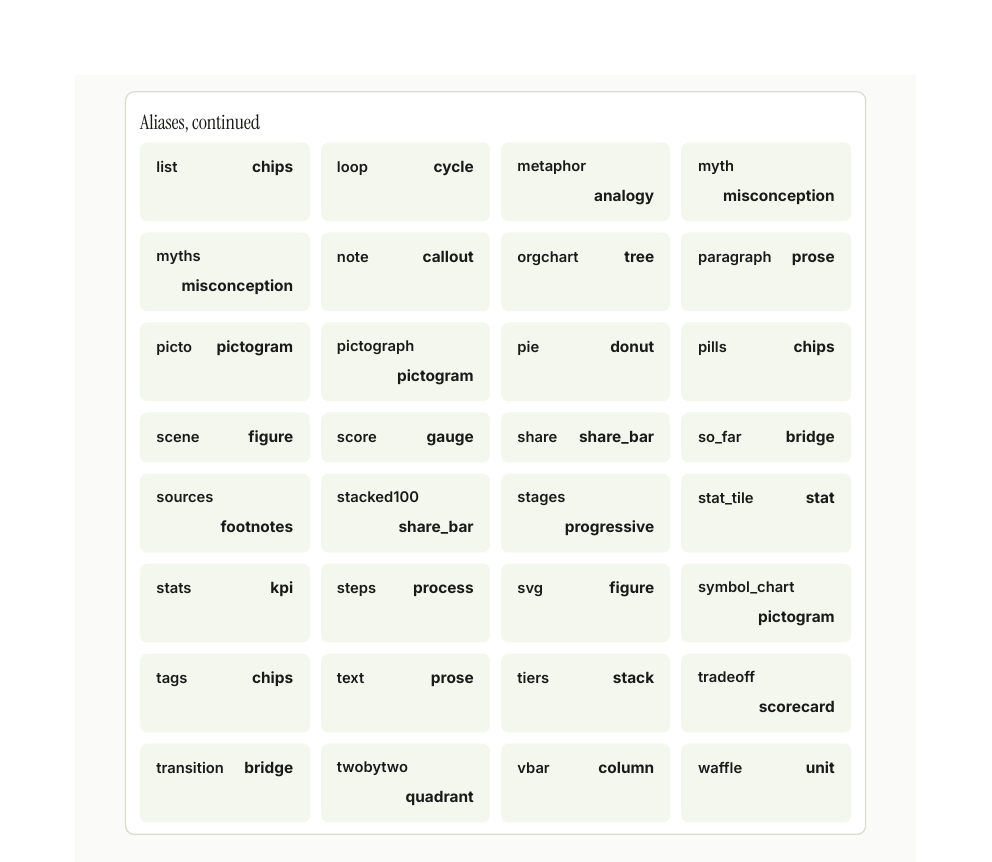
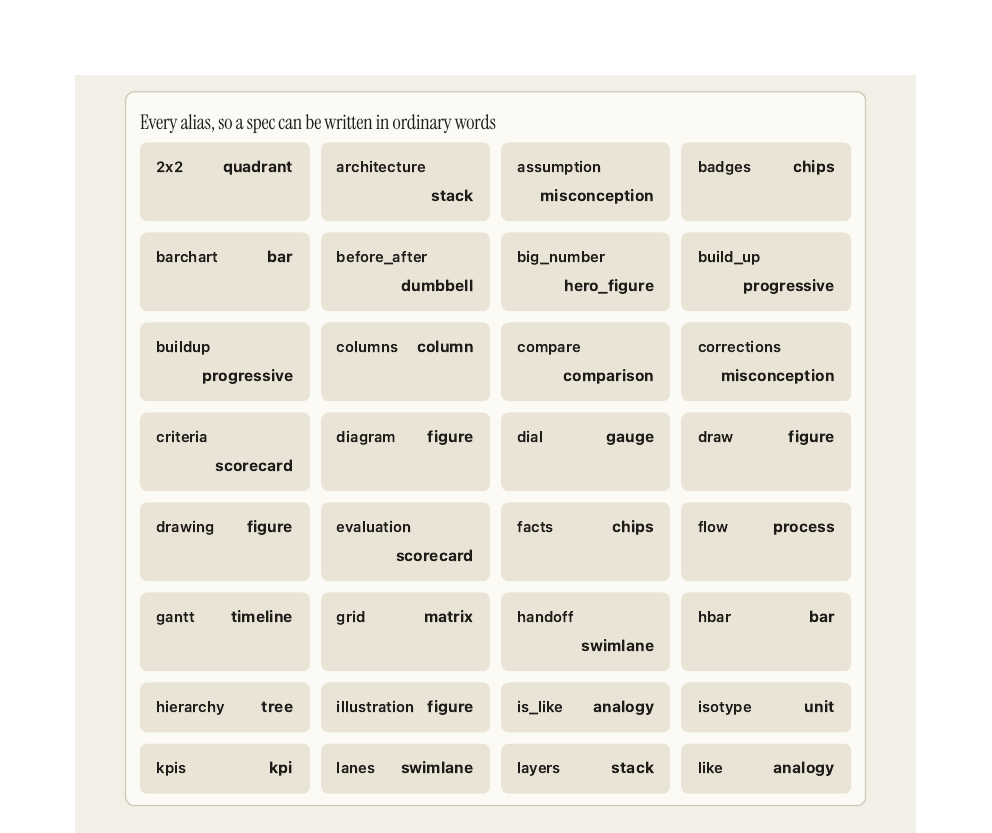
v3.3.0: an iris theme, and every figure redrawn in it
The mark shipped in 3.2.x but the figures under it were still olive, so the
README read as two brands stapled together. themes/iris.json is the house theme
and every image on the README and in GALLERY.md is now rendered in it.

The theme is taken from branding/, not invented next to it. Page is the mark's
cream ground, accent is its clay, and both sequential ramps are struck from the
mark's own two hue angles, 39.9 and 251.1 in OKLCH, so a ramp in a chart and the
logo above it are literally the same colour. Diverging runs blue to clay, which
is the inversion the mark is built on.

The eight categorical slots are deliberately NOT the brand. A chart needs eight
separable identities and a brand has two, and forcing the slots to brand hues is
exactly how a "brand-safe" palette ends up unreadable. Clay and blue lead; the
other six were found by enumerating a hue grid and keeping only sets that clear
every gate. The first search passed with four oranges and four blues, which is
legal, because the gate measures adjacent pairs and the first three slots, and
useless in an eight-series scatter where two slots read as one colour. Added a
32 degree minimum hue gap, so every slot is now its own family. The gate is a
floor, not a target.

Worst adjacent CVD dE is 11.6. iris is the only theme in the repo that needs no
waiver: rentos records one because brand olive measures a chroma of 0.087
against a 0.10 floor, and a brand colour cannot be re-stepped.
[…]

diff --git a/assets/gen_gallery.py b/assets/gen_gallery.py
@@ -617,7 +617,7 @@ spec = {
         # in this repo where the theme is the subject as much as the blocks are,
         # and a validated brand theme shows more of what a theme can do than the
         # neutral default, whose whole job is to get out of the way.
-        "theme": "rentos",
+        "theme": "iris",
         "page": "a4",
         "density": "graphic",
         # The blocks ARE the subject here, so the air between them is dead space

diff --git a/assets/gen_readme.py b/assets/gen_readme.py
@@ -276,7 +276,7 @@ spec = {
         # the gallery on `rentos`, the README read as two documents: the figure
         # above the vocabulary section and the sheets below it disagreed about
         # what a heading and an accent look like.
-        "theme": "rentos",
+        "theme": "iris",
         "page": "slide",
         "density": "graphic",
         "tables": False,

diff --git a/README.md b/README.md
@@ -11,12 +11,12 @@
 
 <p align="center">
 <a href="https://github.com/remybroun/infographic/actions/workflows/selftest.yml"><img src="https://github.com/remybroun/infographic/actions/workflows/selftest.yml/badge.svg" alt="selftest"></a>
-<a href="SKILL.md"><img src="https://img.shields.io/badge/version-3.2.0-5C6B2E" alt="version 3.2.0"></a>
-<a href="#requirements"><img src="https://img.shields.io/badge/python-3.12%2B-5C6B2E" alt="Python 3.12+"></a>
-<a href="GALLERY.md"><img src="https://img.shields.io/badge/block%20types-57-5C6B2E" alt="57 block types"></a>
-<a href="#requirements"><img src="https://img.shields.io/badge/dependencies-0-5C6B2E" alt="dependencies 0"></a>
-<a href="LICENSE"><img src="https://img.shields.io/badge/license-MIT-5C6B2E" alt="license MIT"></a>
-<a href="branding/"><img src="https://img.shields.io/badge/branding-iris-5C6B2E" alt="branding"></a>
+<a href="SKILL.md"><img src="https://img.shields.io/badge/version-3.3.0-B66346" alt="version 3.3.0"></a>
+<a href="#requirements"><img src="https://img.shields.io/badge/python-3.12%2B-B66346" alt="Python 3.12+"></a>
+<a href="GALLERY.md"><img src="https://img.shields.io/badge/block%20types-57-B66346" alt="57 block types"></a>
+<a href="#requirements"><img src="https://img.shields.io/badge/dependencies-0-B66346" alt="dependencies 0"></a>
+<a href="LICENSE"><img src="https://img.shields.io/badge/license-MIT-B66346" alt="license MIT"></a>
+<a href="branding/"><img src="https://img.shields.io/badge/branding-iris-B66346" alt="branding"></a>
 </p>
 
 A skill that turns a document, a dataset or a topic into a designed visual
@@ -44,7 +44,7 @@ every project, clone into `<project>/.claude/skills/infographic` instead.
 ## Verify
 
 ```bash
-python3 scripts/ig.py selftest          # 409 assertions
+python3 scripts/ig.py selftest          # 420 assertions
 python3 scripts/ig.py validate --all    # every theme through the colour checks
 python3 scripts/ig.py selftest --render # also builds all six fixtures, to PDF
 sh assets/build_gallery.sh              # rebuilds every image on this page
@@ -195,23 +195,35 @@ identifiers only their author could read.
 
 ## Themes
 
-`default` (neutral editorial) · `rentos` (olive editorial, Instrument Serif) ·
-`mono` (greyscale, print-safe).
+`default` (neutral editorial) · `iris` (the house theme, clay and blue) ·
+`rentos` (olive editorial, Instrument Serif) · `mono` (greyscale, print-safe).
 
-Every image on this page is `rentos`, so what you are looking at is a theme
-doing its whole job: the olive lead, terracotta as the warm secondary, blue and
-plum as separable companions, and Instrument Serif on the block titles over
-Inter everywhere else. The serif is opt-in per theme (`type.block_title`), since
-a theme whose display face *is* its sans gains nothing from it.
+Every image on this page is `iris`, so what you are looking at is a theme doing
+its whole job, and it is the same theme as the mark at the top of the page. Its
+page is the mark's cream ground, its accent is the mark's clay, and both its
+sequential ramps are struck from the mark's own two hue angles, 39.9° and
+251.1° in OKLCH. Its diverging scale runs blue to clay, which is the same
+inversion the mark is built on. Block titles are set in the display face over
+the sans everywhere else; the serif is opt-in per theme (`type.block_title`),
+since a theme whose display face *is* its sans gains nothing from it.
 
-All three pass the computable colour checks: contrast, categorical separation,
-and colour-vision-deficiency distance. A new brand theme is a JSON file, not
-code, and its slot order is found by enumerating orderings and keeping the ones
-that clear the gates, never by picking what looks nice. Brand olive and
-terracotta are deliberately not adjacent slots: that pair measures a CVD ΔE of
-4.5, so a protanope cannot separate them. The scorecard in the sheet above counts
-the checks per theme; `mono` runs fewer of them because greyscale has fewer
-categorical slots to separate, not because it scores worse.
+**The eight categorical slots are deliberately not the brand.** A chart needs
+eight separable identities and a brand has two, so forcing the slots to the
+brand hues is how "brand-safe" palettes end up unreadable. Clay and blue lead,
+and the other six were found by enumerating a hue grid and keeping only the sets
+that clear every gate, with a minimum 32° hue gap so that no two slots collapse
+into the same family. The first search passed the gate with four oranges and
+four blues, which is legal, because the gate measures adjacent pairs and the
+first three slots, and useless in an eight-series scatter. The gate is a floor,
+not a target.
+
+All four themes pass the computable colour checks: contrast, categorical
+separation, and colour-vision-deficiency distance. `iris` is the only one that
+needs no waiver; `rentos` records one, because brand olive measures a chroma of
+0.087 against a 0.10 floor and a brand colour cannot be re-stepped. A new theme
+is a JSON file, not code. The scorecard in the sheet above counts the checks per
+theme; `mono` runs fewer of them because greyscale has fewer categorical slots
+to separate, not because it scores worse.
 
 ```bash
 python3 scripts/ig.py validate --all

diff --git a/SKILL.md b/SKILL.md
@@ -1,9 +1,9 @@
 ---
 name: infographic
 description: Turn text, a document, or a topic into a graphic-first explainer: an imaginative schoolbook-style HTML page where full-page drawings, diagrams and legends carry the ideas and the text is titles only (a print-ready PDF only when asked). Use for an infographic, visual explainer, one-pager, data poster, concept or architecture diagram, or chart-driven report, and whenever the ask is to visualize or explain something visually. Not for interactive dashboards or slide decks.
-version: 3.2.0
+version: 3.3.0
 user-invocable: true
-argument-hint: "[source file, or the topic to explain] [--theme default|rentos|mono] [--page a4|a3|slide|scroll]"
+argument-hint: "[source file, or the topic to explain] [--theme default|iris|rentos|mono] [--page a4|a3|slide|scroll]"
 allowed-tools:
   - Bash(python3 *)
 ---
@@ -275,7 +275,7 @@ did not fit". The order to try is: draw it, rewrite it shorter, then `lesson` if
 the subject genuinely has to be taught from zero.
 → [teaching.md](references/teaching.md)
 
-Themes: `default` (neutral editorial) · `rentos` (RentRemote / RentOS olive,
+Themes: `default` (neutral editorial) · `iris` (house theme, clay and blue) · `rentos` (RentRemote / RentOS olive,
 Instrument Serif headings) · `mono` (greyscale, print-safe, texture forced on).
 All three pass the computable colour checks. Verify with `ig.py validate --all`,
 preview with `ig.py catalog --sheet out/sheet.pdf --theme X`. A new brand theme

diff --git a/GALLERY.md b/GALLERY.md
@@ -3,7 +3,7 @@
 Every form this skill draws, drawn. Nothing on this page is a mock-up or a
 sketch of a chart: each sheet is a rendered A4 page out of the same pipeline any
 document goes through, and each one is trimmed to its content. Forty-one
-specimens over ten sheets, in the `rentos` theme.
+specimens over ten sheets, in the `iris` theme.
 
 **The data is this repository.** Every number here is read at build time from the
 block registry, `density.CAPS`, the five shipped fixture specs, the linter's own
@@ -85,7 +85,7 @@ named, not when the dots are precise.
 
 ## Structure, and diagram
 
-![Four blocks. A sankey from 57 block types through the families to whether each draws or sets text. A tree of what is in this repository. An authored figure of three arguments over one set of facts, with the chosen one highlighted. A scorecard of the colour checks each of the three themes passes, and a gauge of how much of the vocabulary a shipped example demonstrates.](assets/gallery-structure-diagram.png)
+![Four blocks. A sankey from 57 block types through the families to whether each draws or sets text. A tree of what is in this repository. An authored figure of three arguments over one set of facts, with the chosen one highlighted. A scorecard of the colour checks each of the four themes passes, and a gauge of how much of the vocabulary a shipped example demonstrates.](assets/gallery-structure-diagram.png)
 
 `sankey` `tree` `figure` `scorecard` `gauge`.
 

diff --git a/references/spec-schema.md b/references/spec-schema.md
@@ -41,7 +41,7 @@ places itself, with `<div data-block="the-id"></div>`.
 | Key | Default | Meaning |
 |---|---|---|
 | `title` | `"Infographic"` | browser/PDF title; a literal description of the subject and scope, never a slogan |
-| `theme` | `"default"` | `default` · `rentos` · `mono`, or a path to a theme JSON |
+| `theme` | `"default"` | `default` · `iris` · `rentos` · `mono`, or a path to a theme JSON |
 | `page` | `"a4"` | `a4` `a4-land` `letter` `letter-land` `a3` `a3-land` `slide` `poster` |
 | `mode` | `"argument"` | `argument` for a reader who has the concept; `lesson` for one who does not, which makes `ladder` required and enforced. See [teaching.md](teaching.md) |
 | `ladder` | none | the explanation, as ordered rungs. Required in `lesson` mode, checked in both. See below |

diff --git a/references/pipeline.md b/references/pipeline.md
@@ -227,7 +227,8 @@ one figure defect with no other detector.
 
 ## 8 · Pick the theme
 
-`default` unless the work is branded. `rentos` for RentRemote / RentOS. `mono`
+`iris` for anything of our own. `default` when it must look unbranded. `rentos`
+for RentRemote / RentOS. `mono`
 when it will be photocopied. A new brand theme is a data file, not code, and it
 must pass the checks before it ships. → [color-and-type.md](color-and-type.md)
 
